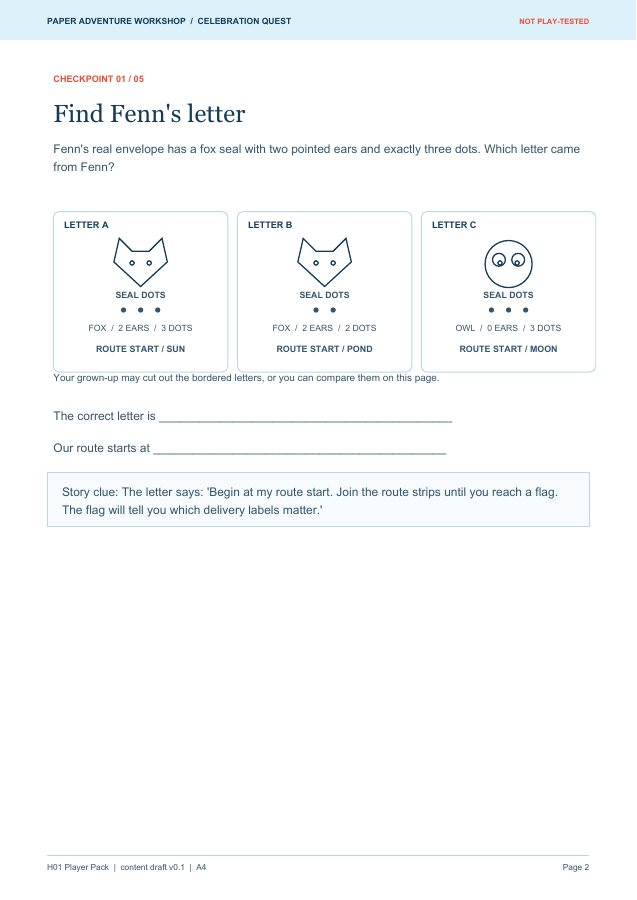
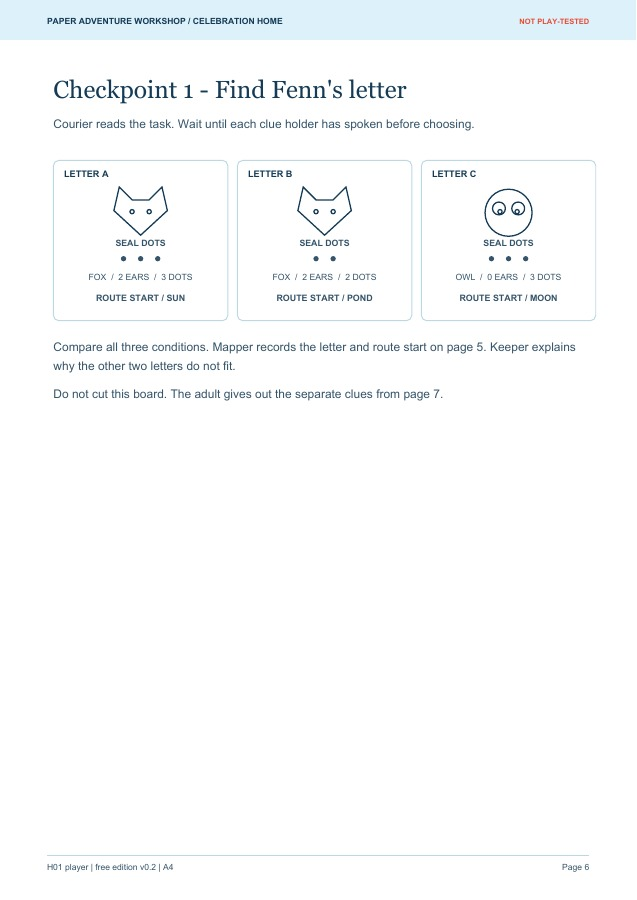
Rebuild Celebration Home with full-game roles, separate props and complete hosting

Changed region(s): [[0.0895, 0.0622, 0.9246, 0.4667], [0.0895, 0.4978, 0.865, 0.5911], [0.2983, 0.0, 0.4474, 0.0311]]

diff --git a/src/productPages.jsx b/src/productPages.jsx
@@ -185,7 +185,7 @@ export function ThemeDetailPage({ Link, themeId, selectedSetting, catalog, runti
       </section>
       <section id="how-the-story-works" className="theme-detail-section" aria-labelledby="theme-steps-heading"><div className="theme-detail-heading"><span className="eyebrow">THE STORY ROUTE</span><h2 id="theme-steps-heading">What players actually do</h2><p>Each result becomes a clue for the next checkpoint. The full answers stay in the {guide}.</p></div><ol className="theme-checkpoints">{details.stages.map(([title, action, result], index) => <li key={title}><span className="theme-step-number">{String(index + 1).padStart(2, '0')}</span><div><h3>{title}</h3><p>{action}</p><small>Leads to: {result}</small></div></li>)}</ol></section>
       <section className="theme-detail-section theme-reasons" aria-labelledby="theme-reasons-heading"><div className="theme-detail-heading"><span className="eyebrow">WHY CHOOSE THIS ONE</span><h2 id="theme-reasons-heading">What makes this story different</h2></div><div className="theme-reasons-grid">{details.reasons.map((reason, index) => <article key={reason}><span>{String(index + 1).padStart(2, '0')}</span><p>{reason}</p></article>)}</div></section>
-      <section className="theme-detail-section theme-prep" aria-labelledby="theme-prep-heading"><div><span className="eyebrow">BEFORE YOU PLAY</span><h2 id="theme-prep-heading">Simple paper setup</h2></div><div><p>Print the {setting === 'home' ? 'Player Pack for your household' : 'Player Pack for your groups'} and read the {guide} first. Ordinary paper and pens are enough to begin. Where cards have borders, the adult can cut them apart or keep them on the original page for players to compare and mark.</p><p>{setting === 'home' ? 'An adult guides the story and decides whether to play entirely at a table.' : 'A teacher guides each checkpoint, distributes role clues and checks the group’s conclusion.'} No special equipment or digital account is needed by children.</p><div className="theme-print-specs">{knownV01Pages && <div><strong>Current PDF pages</strong><span>{independentClassroom ? '7 Player Pack pages + 7 Teacher Guide pages' : '6 Player Pack pages + 3 ' + guide + ' pages'} in each paper size (v0.1 file set).</span></div>}<div><strong>Copies to prepare</strong><span>Print one complete Player Pack per playing group and keep one {guide} for the adult. Use the same A4 or US Letter size for both files.</span></div><div><strong>Timing</strong><span>Preparation and play time will be added after physical print and real-group checks.</span></div></div><p className="theme-prep-note">These are PDF page counts, not a final printer-sheet promise. Check the files before you print for a group.</p></div></section>
+      <section className="theme-detail-section theme-prep" aria-labelledby="theme-prep-heading"><div><span className="eyebrow">BEFORE YOU PLAY</span><h2 id="theme-prep-heading">Simple paper setup</h2></div><div><p>Print the {setting === 'home' ? 'Player Pack for your household' : 'Player Pack for your groups'} and read the {guide} first. Ordinary paper and pens are enough to begin. Follow the pack-specific cutting instructions. Celebration Home v0.2 uses separate cards: prepare and distribute them as the Host Guide specifies.</p><p>{setting === 'home' ? 'An adult guides the story and decides whether to play entirely at a table.' : 'A teacher guides each checkpoint, distributes role clues and checks the group’s conclusion.'} No special equipment or digital account is needed by children.</p><div className="theme-print-specs">{theme.id === 'celebration' && setting === 'home' && <div><strong>Home cooperative edition v0.2</strong><span>15 Player Pack pages per team + 8 Host Guide pages once. One team for 2–6 players; two balanced teams for 7–12. Four rotating jobs, separate props and step-by-step hosting. Print single-sided: 23 sheets for one team or 38 for two.</span></div>}{knownV01Pages && !(theme.id === 'celebration' && setting === 'home') && <div><strong>Current PDF pages</strong><span>{independentClassroom ? '7 Player Pack pages + 7 Teacher Guide pages' : '6 Player Pack pages + 3 ' + guide + ' pages'} in each paper size (v0.1 file set).</span></div>}<div><strong>Copies to prepare</strong><span>Print one complete Player Pack per playing group and keep one {guide} for the adult. Use the same A4 or US Letter size for both files.</span></div><div><strong>Timing</strong><span>Preparation and play time will be added after physical print and real-group checks.</span></div></div><p className="theme-prep-note">These are PDF page counts, not a final printer-sheet promise. Check the files before you print for a group.</p></div></section>
       {edition.alternateWording && <aside className="theme-story-wording"><strong>Classroom wording choice</strong><p>The default story uses the neutral “{edition.title}” wording. An adult can choose “{edition.alternateWording.title}” when that version is available. Both use the same puzzles and answers; the choice is never inferred from a child’s background.</p></aside>}
       <section className="theme-detail-section theme-choose" aria-labelledby="theme-choose-heading"><div className="theme-detail-heading"><span className="eyebrow">CHOOSE YOUR NEXT STEP</span><h2 id="theme-choose-heading">Get this story, or create your own</h2><p>The ready-made game has a fixed story and answers. Custom creation is a separate new adventure.</p></div><div className="theme-choice-grid"><article><span className="eyebrow">READY-MADE · {label.toUpperCase()}</span><h3>{edition.title}</h3><p>The Player Pack and {guide} described on this page, in A4 and US Letter. No AI rewrite is included.</p><strong>{free ? 'Free' : offer ? (testPack ? 'Stripe test price ' : 'Planned price ') + formatUsd(offer.unitAmount) : 'Availability pending'}</strong>{free ? <Link className="button" to={`/en/samples/${setting}/`}>Get the free {label} game <DownloadSimple size={18} /></Link> : purchasable ? <Link className="button" to={`/en/checkout/?kind=ready&theme=${theme.id}&setting=${setting}`}>{runtime?.checkoutMode === 'test' ? 'Open test checkout' : 'Get this ready-made pack'} <ArrowRight size={18} /></Link> : <p className="theme-unavailable">{retired ? 'This former edition is closed to new orders.' : 'This ready-made edition is not available to order yet.'}</p>}{testPack && <small>Stripe test mode uses test cards only and does not charge real money.</small>}</article><article><span className="eyebrow">CUSTOM ADVENTURE</span><h3>Make a different story</h3><p>Use this world as a starting point, then choose your own players, place and story direction. This creates a separate game.</p><strong>Custom {label} proposal · {formatUsd(offerFor('custom', setting).unitAmount)}</strong><Link className="button-quiet" to={`/en/create/?theme=${theme.id}&setting=${setting}`}>Explore custom creation <ArrowRight size={18} /></Link></article></div>{story?.[otherSetting] && theme.availableSettings?.includes(otherSetting) && <p className="theme-edition-foot">Looking for a different group? <Link to={url(otherSetting)}>See “{story[otherSetting].title}” for {otherSetting === 'home' ? 'home' : 'the classroom'} <ArrowRight size={17} /></Link></p>}</section>
     </div>

diff --git a/src/freeDownload.jsx b/src/freeDownload.jsx
@@ -44,7 +44,7 @@ export default function FreeDownload({ Link, classroom = false, catalog }) {
   }
   return <main className="extended-page sample-download-page"><div className="sample-download-shell">
     <header className="sample-download-intro"><div><span className="eyebrow">FREE CELEBRATION GAME · {label.toUpperCase()}</span><h1>Download your free Celebration {label} game.</h1><h2>{story.title}</h2><p>{story.goal}</p><div className="sample-download-facts"><span>Ages 6–12</span><span>{classroom ? '2–35 students' : '2–12 players'}</span><span>5 checkpoints</span></div></div><figure><img src={story.image || theme.image} alt={`${story.title} story illustration`} width="800" height="600" /><figcaption>Story illustration · download the printable files below</figcaption></figure></header>
-    <section className="live-panel sample-download-panel" aria-labelledby="sample-download-title"><nav className="live-tabs" aria-label="Choose edition"><Link className={!classroom ? 'active' : ''} aria-current={!classroom ? 'page' : undefined} to="/en/samples/home/">Home</Link><Link className={classroom ? 'active' : ''} aria-current={classroom ? 'page' : undefined} to="/en/samples/classroom/">Classroom</Link></nav><p className="sample-edition-explanation">{classroom ? 'A teacher-led group game with its own classroom story and materials.' : 'A family game with its own Home story and materials.'} Home and Classroom are different games; choose the setting you will use.</p><p className="live-note">Trial {version || 'draft'} · English PDF · No account or payment needed.</p><h2 id="sample-download-title">Your complete game includes two PDFs.</h2><p>Download both to get started. The Player Pack is for the children; the {guide} is for you and includes the answers.</p>
+    <section className="live-panel sample-download-panel" aria-labelledby="sample-download-title"><nav className="live-tabs" aria-label="Choose edition"><Link className={!classroom ? 'active' : ''} aria-current={!classroom ? 'page' : undefined} to="/en/samples/home/">Home</Link><Link className={classroom ? 'active' : ''} aria-current={classroom ? 'page' : undefined} to="/en/samples/classroom/">Classroom</Link></nav><p className="sample-edition-explanation">{classroom ? 'A teacher-led group game with its own classroom story and materials.' : 'A family game with its own Home story and materials.'} Home and Classroom are different games; choose the setting you will use.</p>{!classroom && <div className="sample-edition-explanation"><strong>Cooperative Home edition v0.2</strong><p>Four rotating explorer jobs across five checkpoints. Play as one team with 2–6 players, or two balanced teams with 7–12; one adult hosts in addition to the players.</p><p>Player Pack: 15 pages per team. Host Guide: 8 pages once. Print 23 sheets for one team or 38 for two teams, single-sided. The guide lists every prop, cut and handout.</p></div>}<p className="live-note">Trial {version || 'draft'} · English PDF · No account or payment needed.</p><h2 id="sample-download-title">Your complete game includes two PDFs.</h2><p>Download both to get started. The Player Pack is for the children; the {guide} is for you and includes the answers.</p>
     <div className="sample-paper-choice"><h3>1. Choose your printer’s paper size</h3><div className="live-tabs" role="group" aria-label="Paper size">{['A4', 'Letter'].map(size => <button key={size} type="button" disabled={Boolean(busy)} className={paper === size ? 'active' : ''} aria-pressed={paper === size} onClick={() => { setPaper(size); setNotice(''); }}>{size === 'Letter' ? 'US Letter' : 'A4'}</button>)}</div><p><strong>A4:</strong> 210 × 297 mm. <strong>US Letter:</strong> 8.5 × 11 inches, commonly used in the US and Canada. Both contain the same game; you only need one paper size.</p></div>
     <div className="sample-bundle"><div><h3>2. Get the complete {label} game</h3><p>One ZIP containing the {paper === 'Letter' ? 'US Letter' : 'A4'} Player Pack and {guide}. Extract the ZIP before opening the PDFs.</p></div><button type="button" className="button" disabled={Boolean(busy)} onClick={() => download('complete')}>{busy === 'complete' ? 'Preparing both PDFs…' : 'Download complete game · ZIP'} <DownloadSimple size={19} /></button></div>
     <h3 className="sample-separate-heading">Prefer separate PDF files?</h3><div className="live-downloads"><div><strong>Player Pack</strong><p>Story, clues and paper activities to give to {classroom ? 'students' : 'children'}.</p><button type="button" aria-label={`Download ${setting} ${paper} Player Pack`} onClick={() => download('player')} disabled={Boolean(busy)}>{busy === 'player' ? 'Downloading…' : 'Download Player Pack'} <DownloadSimple size={17} /></button></div><div><strong>{guide}</strong><p>Preparation, hints and answers. Keep this PDF separate from the players.</p><button type="button" aria-label={`Download ${setting} ${paper} ${guide}`} onClick={() => download('guide')} disabled={Boolean(busy)}>{busy === 'guide' ? 'Downloading…' : `Download ${guide}`} <DownloadSimple size={17} /></button></div></div>{busy && <p role="status">{busy === 'complete' ? 'Fetching both PDFs for your complete pack…' : 'Fetching your PDF…'}</p>}{notice && <p className="sample-download-notice" role="status">{notice}</p>}{error && <p className="live-alert" role="alert"><WarningCircle size={18} />{error} No complete pack is saved unless both files are available.</p>}

diff --git a/src/themeDetailContent.js b/src/themeDetailContent.js
@@ -6,9 +6,9 @@ export const themeDetailContent = {
   ...independentClassroomDetails,
   celebration: {
     home: {
-      hook: 'A friendly paper mystery for a celebration at home.',
-      reasons: ['A gentle invitation from Fenn the fox starts the story.', 'Children connect route strips on a paper map and compare parcel labels.', 'The ending is a printable letter, with no real gift or hidden chest required.'],
-      materials: ['Illustrated letter and invitation choices', 'Route strips and a six-place drawing map', 'Role clues, parcel labels and a symbol dictionary', 'Parcel choices and final matching check'],
+      hook: 'A cooperative delivery mystery with four explorer jobs throughout the five checkpoints.',
+      reasons: ['Four rotating jobs make each checkpoint a shared task.', 'One team for 2–6 players or two balanced teams for 7–12, plus an adult host.', 'Separate clue cards, a split code key and a scripted host guide support the full adventure.'],
+      materials: ['Four full-game job cards and a team trail', 'Letter choices with separate animal, ear and dot clues', 'Cut-out route strips and an intact six-place map', 'Label board and separate conditions; coded message and split keys', 'Parcel cards, evidence check, finale letter and optional keepsake'],
       stages: [
         ['Find the letter', 'Compare character and stamp clues to identify Fenn’s message.', 'A starting place for the map'],
         ['Draw the route', 'Join the shuffled route strips on the unconnected map.', 'A flag clue for the next decision'],

diff --git a/scripts/generate_celebration_home_v02.py b/scripts/generate_celebration_home_v02.py
@@ -1,0 +1,115 @@
+"""Celebration Home v0.2: cooperative roles, separate props and executable hosting."""
+from pathlib import Path
+import hashlib, json
+from pypdf import PdfReader
+from reportlab.platypus import SimpleDocTemplate, PageBreak
+import generate_celebration_samples as g
+
+ROOT = g.ROOT
+OUT = ROOT / 'output/pdf'
+ROLES = ['Courier', 'Spotter', 'Mapper', 'Keeper']
+TASKS = {
+ 'Courier': ['Read the animal clue; propose a letter.', 'Read the start place from the record; ask for the first strip.', 'Share the flag-colour condition.', 'Read the coded symbols in order.', 'Present the chosen parcel and its evidence.'],
+ 'Spotter': ['Read the ear clue; compare the seals.', 'Check each strip joins at the same place.', 'Share the star-count condition.', 'Find the letters on key card I.', 'Check the flag condition on each parcel.'],
+ 'Mapper': ['Write the chosen letter and start place.', 'Arrange strips; draw the agreed route.', 'Record the label number and code mark.', 'Write the letters from each speaker.', 'Check the decoded place and record the parcel.'],
+ 'Keeper': ['Read the dot clue; check all three conditions.', 'Keep the solved letter visible; record the flag.', 'Share the number condition; keep the selected card.', 'Use the chosen code mark and key card II; check the word.', 'Check the label number; invite every player to explain a contribution.'],
+}
+
+def page(title, intro=''):
+ return [g.p(title, 'h1')] + ([g.p(intro)] if intro else [])
+
+def card(title, text, w):
+ return [g.box(f'<b>{title}</b><br/>{text}', w), g.gap(13)]
+
+def table(headers, rows, w, ratios):
+ t=g.grid(headers, rows, [w*r for r in ratios])
+ t.setStyle(g.TableStyle([('TOPPADDING',(0,0),(-1,-1),6),('BOTTOMPADDING',(0,0),(-1,-1),6)]))
+ return t
+
+def record(w):
+ return table(['Checkpoint', 'Our evidence'], [['1 - Letter', 'Letter: ______  Start: ______'],['2 - Route','Strip order: ______  Flag: ______'],['3 - Label','Label: ______  Number: ______  Code mark: ______'],['4 - Message','Decoded place: ____________________'],['5 - Parcel','Parcel: ______  Our reasons: ____________________']],w,[.28,.72])
+
+def player(w):
+ pages=[]
+ pages.append(page('The Missing Birthday Chest', 'HOME / H01 / PLAYER PACK / FREE EDITION v0.2') + [g.box('<b>A message from Fenn</b><br/>Our celebration chest is ready, but its delivery label has gone missing! Help my delivery team follow the paper trail and find the right parcel. Share your clues: no explorer has to solve everything alone.',w,g.CREAM), *g.cover_art(g.CELEBRATION_HOME_ART),g.p('Your team rules','h2'),g.p('Listen to each clue holder before choosing. Take turns touching the props and writing. Keep solved evidence nearby. Ask the grown-up for hints. There is no timer, race or need to search around the house.'),g.p('The chest is a paper story prop. You do not need a real chest, purchased gift or phone. Your grown-up gives you each new checkpoint.')])
+ pages.append(page('Your explorer team','Read this page together before starting.')+[table(['Players','How to share the jobs'],[['2','One person: Courier + Mapper. Other person: Spotter + Keeper. Swap bundles after every checkpoint.'],['3','Courier, Spotter, Mapper + Keeper. Rotate the combined job after each checkpoint.'],['4','One job each. Pass role cards clockwise after each checkpoint.'],['5-6','Two people may share a job: one reads, one operates or checks. Swap within pairs each checkpoint.'],['7-12','Your grown-up makes two balanced teams, 3-6 each. Every team gets a complete set; follow the 3-6 rules.']],w,[.15,.85]),g.gap(),g.p('Everyone contributes','h2'),g.p('Before deciding, go around the team: each person shares one observation or question. Nobody moves another player\'s card without asking. Your grown-up can read aloud; that player still chooses and explains.'),g.p('Role names are jobs, not characters you must pretend to be. Partners share the role card; you do not need twelve different characters.')])
+ for pair in [ROLES[:2],ROLES[2:]]:
+  f=page('Explorer job cards','Grown-up: cut around the two bordered cards. Keep these available for the whole game.')
+  for role in pair:
+   f+=card(role,'<br/>'.join(f'{i+1}. {t}' for i,t in enumerate(TASKS[role]))+'<br/><b>Ask:</b> What does our team know, and what do we still need?',w)
+  pages.append(f)
+ pages.append(page('Team trail and evidence','Mapper records agreed results. Keeper keeps this sheet available. No names are needed.')+[record(w),g.gap(18),g.p('Evidence parking','h2'),g.p('Place your selected letter, route, label and decoded message beside this record. Each is needed later.'),g.p('Our teamwork moment: ____________________________________'),g.p('Something we asked or noticed: ______________________________')])
+ pages.append(page('Checkpoint 1 - Find Fenn\'s letter','Courier reads the task. Wait until each clue holder has spoken before choosing.')+[g.SealComparisonCards(w,g.HOME_LETTER_CARDS,"home"),g.gap(18),g.p('Compare all three conditions. Mapper records the letter and route start on page 5. Keeper explains why the other two letters do not fit.'),g.p('Do not cut this board. The adult gives out the separate clues from page 7.')])
+ f=page('Checkpoint 1 - Separate clue cards','Grown-up only: cut the three cards. Give Courier the animal, Spotter the ears and Keeper the dots. Mapper records. With combined jobs, one person holds more than one clue.')
+ for title,text in [('Courier / ANIMAL','Fenn uses a FOX seal.'),('Spotter / EARS','Fenn\'s seal has TWO pointed ears.'),('Keeper / DOTS','Fenn\'s seal has exactly THREE dots.')]: f+=card(title,text,w)
+ pages.append(f)
+ pages.append(page('Checkpoint 2 - Route strips','Grown-up: cut each bordered strip. Share them around the team; each player may hold one or more.')+g.strip_cards(['Strip','From','To'],g.HOME_ROUTE_CARDS,w)+[g.p('Courier reads the start from the selected letter. Each holder says where their strip begins and ends. Mapper arranges the proposed path; Spotter checks matching ends. A valid path must reach a flag, not merely stop anywhere. Keeper records the flag on page 5.')])
+ pages.append(page('Checkpoint 2 - Paper route map','Do not cut. Start at your selected letter\'s place. Draw only agreed connections from the route strips.')+[g.CelebrationRouteMap(w, 'home'),g.gap(14),g.p('Each player points to one connection and explains why it belongs. Keep the route strips and this map visible for the next checkpoint.')])
+ pages.append(page('Checkpoint 3 - Delivery label board','Do not cut. Listen to the three separate clues before comparing the four labels.')+[g.CelebrationChoiceCards(w,g.HOME_LABEL_CARDS,'home'),g.gap(18),g.p('Mapper records the label ID, number and code mark. Every label must satisfy all three conditions. Keep your selected label information for Checkpoints 4 and 5.')])
+ f=page('Checkpoint 3 - Separate clue cards','Grown-up: cut the three cards and distribute to their jobs. Mapper operates the board and records; all players must explain a check.')
+ for title,text in [('Courier / FLAG','Use the flag colour your team reached at Checkpoint 2.'),('Spotter / STARS','The correct label has exactly TWO stars.'),('Keeper / NUMBER','The correct label number is FOUR.')]: f+=card(title,text,w)
+ pages.append(f)
+ pages.append(page('Checkpoint 4 - Coded message','Courier reads the symbols in this order. Ask the two key holders for letters using ONLY the code mark recorded from your chosen label.')+[g.box('SUN &nbsp; CLOUD &nbsp; FLAG &nbsp; MOON &nbsp; PATH',w),g.p('Mapper writes each spoken letter below. Keeper checks the selected code mark before accepting the word.'),g.p('SUN: ____ CLOUD: ____ FLAG: ____ MOON: ____ PATH: ____'),g.p('Our place word: ____________________________________'),g.p('Each player reads or checks at least one letter. Copy the final word to page 5. This is a fictional delivery place, not permission to search the house.')])
+ f=page('Checkpoint 4 - Split key cards','Grown-up: cut the two key panels. Spotter keeps I; Keeper keeps II. Other jobs hold the message and record. Key holders share the requested letters aloud.')
+ for title,cols,rows in [('KEY I',['Code mark','SUN','CLOUD'],[[r[0],r[1],r[2]] for r in g.HOME_CODE_ROWS]),('KEY II',['Code mark','FLAG','MOON','PATH'],[[r[0],r[3],r[4],r[5]] for r in g.HOME_CODE_ROWS])]:
+  f += [g.p(title,'h2'),table(cols,rows,w,[1/len(cols)]*len(cols)),g.gap(22)]
+ f += [g.p('Cut outside each entire table. Do not cut individual cells. Use the same code-mark row on BOTH keys. The host does not need to tell you which row.')]
+ pages.append(f)
+ f=page('Checkpoint 5 - Parcel candidates','Grown-up: cut the four cards. Spread them in the evidence parking area; the whole team compares them.')
+ for pid,flag,num,place in [('A','RED',4,'TABLE'),('B','RED',4,'SHELF'),('C','BLUE',4,'TABLE'),('D','RED',5,'TABLE')]:f+=card('PARCEL '+pid,f'Flag: {flag} / Label number: {num} / Place: {place}',w)
+ f += [g.p('Spotter checks the flag, Keeper checks the number and Mapper checks the place. Courier explains the decision. If you share a job, take separate checks. Every player gives evidence or explains why another parcel fails.')]
+ pages.append(f)
+ pages.append(page('Finish the delivery together','Keep this page until your grown-up asks for the final explanation.')+[g.p('Our chosen parcel: ____________________'),g.p('Flag evidence: __________________________________________'),g.p('Number evidence: ________________________________________'),g.p('Place evidence: __________________________________________'),g.p('Ask the grown-up to check your evidence, then receive Fenn\'s celebration letter. In two-team play, each team explains its own route before the shared celebration.'),g.box('<b>Explorer team celebration</b><br/>We listened, checked and helped each other finish the delivery.<br/>One contribution I made: ___________________________<br/>One contribution I noticed: _________________________',w,g.CREAM),g.p('This keepsake is optional. You do not need to write names or score anybody.')])
+ return pages
+
+def guide(w):
+ pages=[]
+ pages.append(page('Host Guide - Celebration Home','PRIVATE ADULT MATERIAL / v0.2 / Keep answers away from players.')+[g.p('Quick start','h2'),g.p('Choose a team arrangement, print the checklist on page 2, prepare five numbered piles or optional envelopes, assign the four job cards and read the opening below. Do not give out the complete Player Pack at once.'),table(['Players','Teams / Player copies'],[['2-3','One team / one complete Player Pack'],['4-6','One team / one complete Player Pack'],['7-12','Two balanced teams of 3-6 / two complete Player Packs']],w,[.25,.75]),g.gap(),g.p('One adult host is additional to the advertised player count. Use one Host Guide for either mode. Adult preparation requires scissors; players need paper and pencils. Five envelopes per team are optional, not required. No real gift, chest, lock or phone is required.'),g.p('Opening script','h2'),g.box('Fenn\'s celebration chest has lost its delivery label. Your team will follow five paper clues to find the right parcel. Everybody has a job. We will listen to all clue holders, take turns and ask for hints when needed. This is cooperative: there is no race.',w,g.CREAM),g.p('Scope: redesigned free edition, not yet play-tested with families. Review the instructions before use. Do not promise a duration or claim validated learning outcomes.')])
+ rows=[['1','Story introduction','1 per team','No / read together'],['2','Team rules','1 per team','No / keep available'],['3-4','Four job cards','1 set per team','Cut borders / assign jobs'],['5','Team trail','1 per team','No / Mapper + Keeper'],['6','Letter board','1 per team','No / checkpoint 1'],['7','Three letter clues','1 set per team','Cut / Courier, Spotter, Keeper'],['8','Five route strips','1 set per team','Cut / share around team'],['9','Map','1 per team','No / checkpoint 2'],['10','Label board','1 per team','No / checkpoint 3'],['11','Three label clues','1 set per team','Cut / Courier, Spotter, Keeper'],['12','Coded message','1 per team','No / Courier + Mapper'],['13','Two key panels','1 set per team','Cut outside tables / Spotter + Keeper'],['14','Four parcels','1 set per team','Cut / checkpoint 5'],['15','Finish / keepsake','1 per team','No / finish; keepsake optional']]
+ pages.append(page('Print and prepare checklist','Select A4 OR US Letter. Print at actual size, single-sided. Black-and-white works: every colour clue is also written.')+[table(['Player page','Material','Quantity','Cut / distribution'],rows,w,[.12,.26,.2,.42]),g.gap(),g.p('Player Pack: 15 sheets per team. Host Guide: 8 sheets once. Total: 23 sheets for one team; 38 for two teams. No blank pages or second paper-size set are needed. Print this guide privately; its page 8 contains the finale letters.')])
+ pages.append(page('Set the table and share the jobs','Prepare these piles separately for each team. Optional envelopes may be labelled 1-5.')+[table(['Keep on table','Hold back until needed'],[['Job cards (3-4), team rules (2), team trail (5)','1: letter board (6) + clues (7)'],['One pencil per player if available','2: cut route strips (8) + intact map (9)'],['A clear space for solved evidence','3: label board (10) + clues (11)'],['Adult guide stays with host','4: message (12) + split keys (13)'],['Read story page 1 at opening','5: parcels (14) + finish sheet (15)']],w,[.5,.5]),g.gap(),g.p('Use page 2 of the Player Pack to combine jobs for 2-3, rotate four jobs for 4, or pair jobs for 5-6. Partners alternate reading and handling props. Rotate after each checkpoint: pass job cards clockwise, keeping solved evidence with the team.'),g.p('For two teams, label piles TEAM A and TEAM B before cutting. Keep both teams\' materials complete. Each team may ask for help independently; do not require either to wait for the other\'s answer. Finish together after both explain their evidence.'),g.p('Participation check','h2'),g.p('Before accepting each result, invite every player to share an observation, perform a check or ask a question. Give quiet players a concrete turn. Older players may help read but should not choose for younger players.')])
+ pages.append(page('Host checkpoints 1 and 2','Read only the task text aloud; do not reveal the answers printed below.')+[g.p('1 - Letter / give pages 6 and 7','h2'),g.p('Say: "Each clue holder knows one part of Fenn\'s seal. Share the parts, then choose together." Give animal to Courier, ears to Spotter and dots to Keeper. Mapper records. Accept Letter A / SUN only after all three conditions are explained. Keep page 6 visible.'),g.p('Hint 1: Compare one condition at a time. Hint 2: Look for the fox with two ears and three dots.'),g.p('2 - Route / give pages 8 and 9','h2'),g.p('Say: "Start at the place from your letter. Tell the team what your strip connects." Share strips among all players. Mapper arranges and draws only agreed links; Spotter checks joins; Keeper records the flag. Accept A-B-C / RED FLAG; D-E ends at CLOUD and fails the flag requirement.'),g.p('Hint 1: Match one strip\'s end to another\'s start. Hint 2: There are two SUN starts, but only one reaches a flag.'),g.p('Pass job cards clockwise. The next operator must be a different player where possible. Keep the selected letter, route and record in the evidence area.')])
+ pages.append(page('Host checkpoints 3 and 4','Information belongs on separate cards, not on a single shared answer sheet.')+[g.p('3 - Label / give pages 10 and 11','h2'),g.p('Say: "Listen to every condition before choosing." Courier gives the flag requirement, Spotter the stars and Keeper the number. Mapper checks the board and records. Accept Label A / 4 / FOX: RED, two stars, number 4. B fails stars, C fails flag, D fails number.'),g.p('Hint 1: Use the flag you already found. Hint 2: Compare each label against RED, two stars and 4.'),g.p('4 - Message / give pages 12 and 13','h2'),g.p('Say: "Use your selected label\'s code mark on both keys." Courier reads SUN, CLOUD, FLAG, MOON, PATH; Spotter holds key I, Keeper key II; Mapper records letters. Ask partners to alternate requested letters. Accept TABLE from FOX. Other rows spell SHELF, CHAIR, FLOOR and are not interchangeable.'),g.p('Hint 1: Which code mark did your label carry? Hint 2: Use the FOX row on both panels; it begins T, A.'),g.p('Pass job cards again. Keep the solved message. The word TABLE is fictional: players do not need to search your furniture.')])
+ pages.append(page('Host checkpoint 5 and the celebration','Give pages 14 and 15. Keep the finale letters from guide page 8 hidden.')+[g.p('5 - Delivery','h2'),g.p('Say: "Your final parcel must match all the evidence you kept. Explain each check." Spotter checks RED, Keeper checks 4, Mapper checks TABLE and Courier reports. Accept Parcel A after all three are explained. B fails place, C fails flag, D fails number. Each additional player must reject another candidate or confirm a check.'),g.p('Hint 1: Read the team trail again. Hint 2: Find RED, 4 and TABLE on the same parcel.'),g.p('Finale script','h2'),g.box('You have restored the delivery label! Your route, number and message all point to the same parcel. Fenn\'s celebration chest can now be delivered. Let\'s read the letter and notice how everybody helped.',w,g.CREAM),g.p('Give one finale letter per team from guide page 8. For two teams, hear both explanations before the shared reading. Invite each player to name a contribution of their own or somebody else\'s. The keepsake on player page 15 is optional; no ranking or names are required.'),g.p('Do not require sweets, a paid present or a physical chest. An adult may add a personal handwritten celebration message if desired.')])
+ pages.append(page('Support, interruptions and checks','Use this page when the group needs an adjustment.')+[g.p('<b>Reading:</b> Read a card privately with its holder, then let that player convey the clue or point to evidence. Repeat words without choosing for them. For older players, ask why the rejected candidates fail; do not invent extra required rules.'),g.p('<b>Guessing:</b> A correct guess is not yet a completed checkpoint. Ask for its evidence, using the first hint if necessary. Do not penalise an incorrect answer; invite another comparison.'),g.p('<b>Early reveal:</b> Keep any accidentally seen card face down until its checkpoint. If an answer is seen, ask a different player to explain its evidence. The game is not a secret test.'),g.p('<b>Missing prop:</b> Reprint that numbered page or copy its complete card text from the master. Do not invent new clue values. Adult answers alone are not replacement player props.'),g.p('<b>Player leaves:</b> Combine the departing job with a remaining job and continue. For two teams, retain both complete evidence sets or bring players together using one set; do not mix conflicting partial records.'),g.p('<b>Pause:</b> Leave each team\'s evidence together and resume at its next checkpoint. There is no clock or elimination.'),g.p('<b>Before play:</b> Check all five piles, cut only indicated borders, keep guides separate and make sure both paper sizes are not mixed. No running, climbing, unsafe hiding places or private belongings are part of the rules.'),g.p('<b>After play:</b> Check participation and confusing instructions. Time, difficulty and enjoyment still need real-family feedback; automated checks cannot establish them.')])
+ f=page('Fenn\'s finale letters','PRIVATE until Parcel A is confirmed. Cut one bordered letter per team. Two copies are provided on this page.')
+ for team in ['TEAM A / ONE-TEAM MODE','TEAM B / TWO-TEAM MODE']:
+  f+=card(team,'<b>Dear explorers,</b><br/>You found the right route, restored the label and delivered our celebration chest. Your RED flag, label number 4 and TABLE message all matched Parcel A. Thank you for listening, sharing your clues and checking together!<br/><br/>From Fenn the fox<br/>Optional grown-up message: _________________________',w)
+ pages.append(f)
+ return pages
+
+def footer(canvas,doc):
+ w,h=doc.pagesize
+ canvas.setFillColor(g.BLUE);canvas.rect(0,h-37,w,37,fill=1,stroke=0)
+ canvas.setFillColor(g.NAVY);canvas.setFont('ArialBold',8)
+ canvas.drawString(44,h-23,'PAPER ADVENTURE WORKSHOP / CELEBRATION HOME')
+ canvas.setFillColor(g.CORAL);canvas.setFont('ArialBold',7)
+ canvas.drawRightString(w-44,h-23,'NOT PLAY-TESTED')
+ canvas.setStrokeColor(g.LINE);canvas.line(44,42,w-44,42)
+ canvas.setFillColor(g.INK);canvas.setFont('Arial',8)
+ canvas.drawString(44,28,f'{doc.product_code} | free edition v0.2 | {doc.paper_label}')
+ canvas.drawRightString(doc.pagesize[0]-44,28,f'Page {doc.page}')
+
+def main():
+ g.validate_logic(); items=[]
+ for label,size in [('A4',g.A4),('Letter',g.letter)]:
+  w=size[0]-88
+  for role,pages in [('player',player(w)),('guide',guide(w))]:
+   assert len(pages)==(15 if role=='player' else 8)
+   path=OUT/f'celebration-home-{role}-v0.2-{label}.pdf'
+   doc=SimpleDocTemplate(str(path),pagesize=size,leftMargin=44,rightMargin=44,topMargin=63,bottomMargin=57,title=f'Celebration Home {role} v0.2',author='Paper Adventure Workshop')
+   doc.product_code=f'H01 {role}';doc.paper_label=label
+   flow=[]
+   for i,f in enumerate(pages):
+    if i:flow.append(PageBreak())
+    flow.extend(f)
+   doc.build(flow,onFirstPage=footer,onLaterPages=footer)
+   count=len(PdfReader(path).pages)
+   assert count==len(pages),(path,count,len(pages))
+   items.append({'path':path.relative_to(ROOT).as_posix(),'paper':label,'role':role,'pages':count,'bytes':path.stat().st_size,'sha256':hashlib.sha256(path.read_bytes()).hexdigest(),'r2Key':f'free/celebration/home/v0.2/{label}/{role}.pdf'})
+ (OUT/'celebration-home-v0.2-manifest.json').write_text(json.dumps({'version':'v0.2','items':items},indent=2)+'\n')
+ print(json.dumps(items,indent=2))
+
+if __name__=='__main__':main()
+
+

diff --git a/scripts/check_celebration_home_v02.py b/scripts/check_celebration_home_v02.py
@@ -1,0 +1,36 @@
+"""Check final page mapping, print geometry and all advertised team sizes."""
+import json
+from pathlib import Path
+import pdfplumber
+from pypdf import PdfReader
+from generate_celebration_home_v02 import ROOT, ROLES, TASKS
+from generate_celebration_samples import validate_logic
+
+validate_logic()
+manifest=json.loads((ROOT/'output/pdf/celebration-home-v0.2-manifest.json').read_text())
+for item in manifest['items']:
+ path=ROOT/item['path']; pages=PdfReader(path).pages
+ assert len(pages)==item['pages']
+ text='\n'.join(p.extract_text() for p in pages)
+ assert 'v0.2' in text and 'v0.1' not in text
+ if item['role']=='player':
+  assert len(pages)==15
+  for number,title in [(2,'Your explorer team'),(5,'Team trail'),(6,'Checkpoint 1'),(8,'Checkpoint 2'),(10,'Checkpoint 3'),(12,'Checkpoint 4'),(14,'Checkpoint 5')]:
+   assert title in pages[number-1].extract_text(),(path,number,title)
+  assert 'Hint 2' not in text and 'Answer key' not in text
+ else:
+  assert len(pages)==8 and '23 sheets' in text and '38' in text
+ with pdfplumber.open(path) as pdf:
+  for i,p in enumerate(pdf.pages):
+   for ch in p.chars:
+    assert 0<=ch['x0']<ch['x1']<=p.width+1 and 0<=ch['top']<ch['bottom']<=p.height+1,(path,i,ch)
+for n in range(2,13):
+ sizes=[n] if n<=6 else [n//2,n-n//2]
+ assert all(2<=s<=6 for s in sizes)
+ for size in sizes:
+  assigned=[[ROLES[0],ROLES[2]],[ROLES[1],ROLES[3]]] if size==2 else [[ROLES[0]],[ROLES[1]],[ROLES[2],ROLES[3]]] if size==3 else [[r] for r in ROLES]+[[ROLES[i%4]] for i in range(size-4)]
+  assert len(assigned)==size and set(r for jobs in assigned for r in jobs)==set(ROLES)
+  for jobs in assigned:
+   assert all(len(TASKS[r])==5 and all(TASKS[r]) for r in jobs)
+print('PASS: 46 PDF pages, all page references, four job duties across five checkpoints, 2-12 player assignment coverage, geometry and clue logic. This is a rules check, not a human play-test.')
+

diff --git a/AGENTS.md b/AGENTS.md
@@ -85,3 +85,5 @@ On 2026-10-10 the owner approved a first-screen creator workspace, own idea vers
 On 2026-10-10 the owner approved a first-screen custom workspace with original idea or guided idea inputs, no repeated fixed-theme gallery, and full below-form value, example journey, real labelled format previews, delivery details, comparison and FAQ content. Preserve indexable static explanation and do not misrepresent fixed-format samples as AI output.
 
 On 2026-10-10 the owner requested restoring the custom illustration in a compact first-screen hero, text left/art right, while keeping the creator visible below. On narrow phones use a short illustration strip so the form remains easy to reach. Keep the complete explanatory and SEO content.
+
+On 2026-10-10 the owner approved redesigning the actual Celebration Home download around four rotating jobs, 2-6 one-team / 7-12 two-team arrangements, distributed clues, split keys, separate props and a complete print/host checklist. Home v0.2 has 15 player pages and 8 guide pages in each paper size. Verify actual served file hashes after release; do not equate rules/geometry checks with real-family play-testing. Preserve classroom v0.1 and other products.
